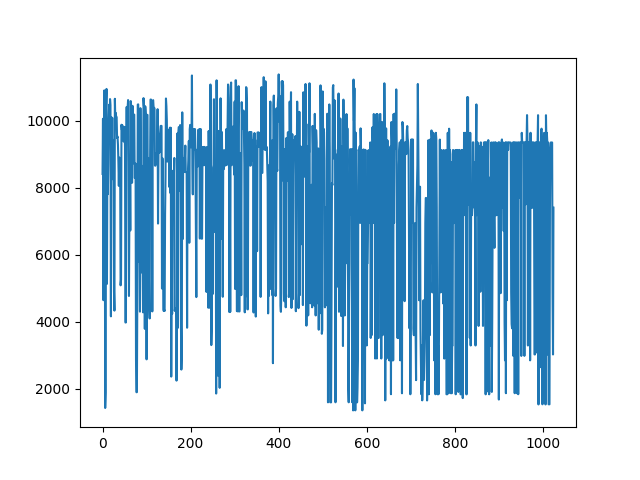
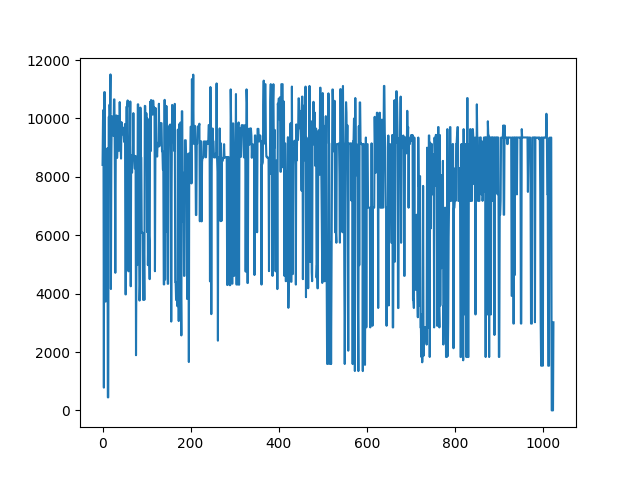
melhoras nos picos

diff --git a/spectrogram.py b/spectrogram.py
@@ -45,7 +45,7 @@ def create_spectrogram(path):
     plt.tight_layout()
     fig_spec.savefig("spectrograms/" + name + "_spectrogram.png", format="png")  
     
-    get_peaks(data_1D,name) 
+    get_peaks(Y_scale,name) 
     
 def get_peaks(audio, name):
     peaks = np.argmax(audio, axis=1)
